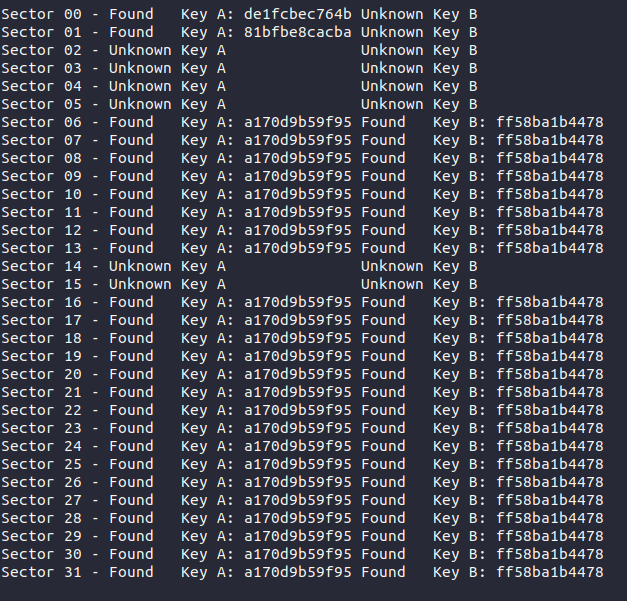
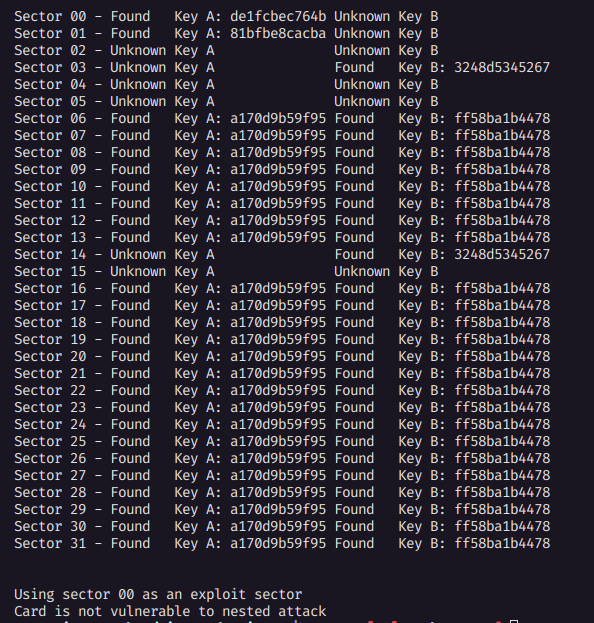
feat: add key 3248d5345267

diff --git a/rio-card-mais/README.md b/rio-card-mais/README.md
@@ -8,6 +8,7 @@ Know keys:
 - ff58ba1b4478
 - de1fcbec764b
 - 81bfbe8cacba
+- 3248d5345267
 
 ![Rio Card Mais keys](https://github.com/nomar113/mr.robot/blob/master/rio-card-mais/riocard.png)
 
